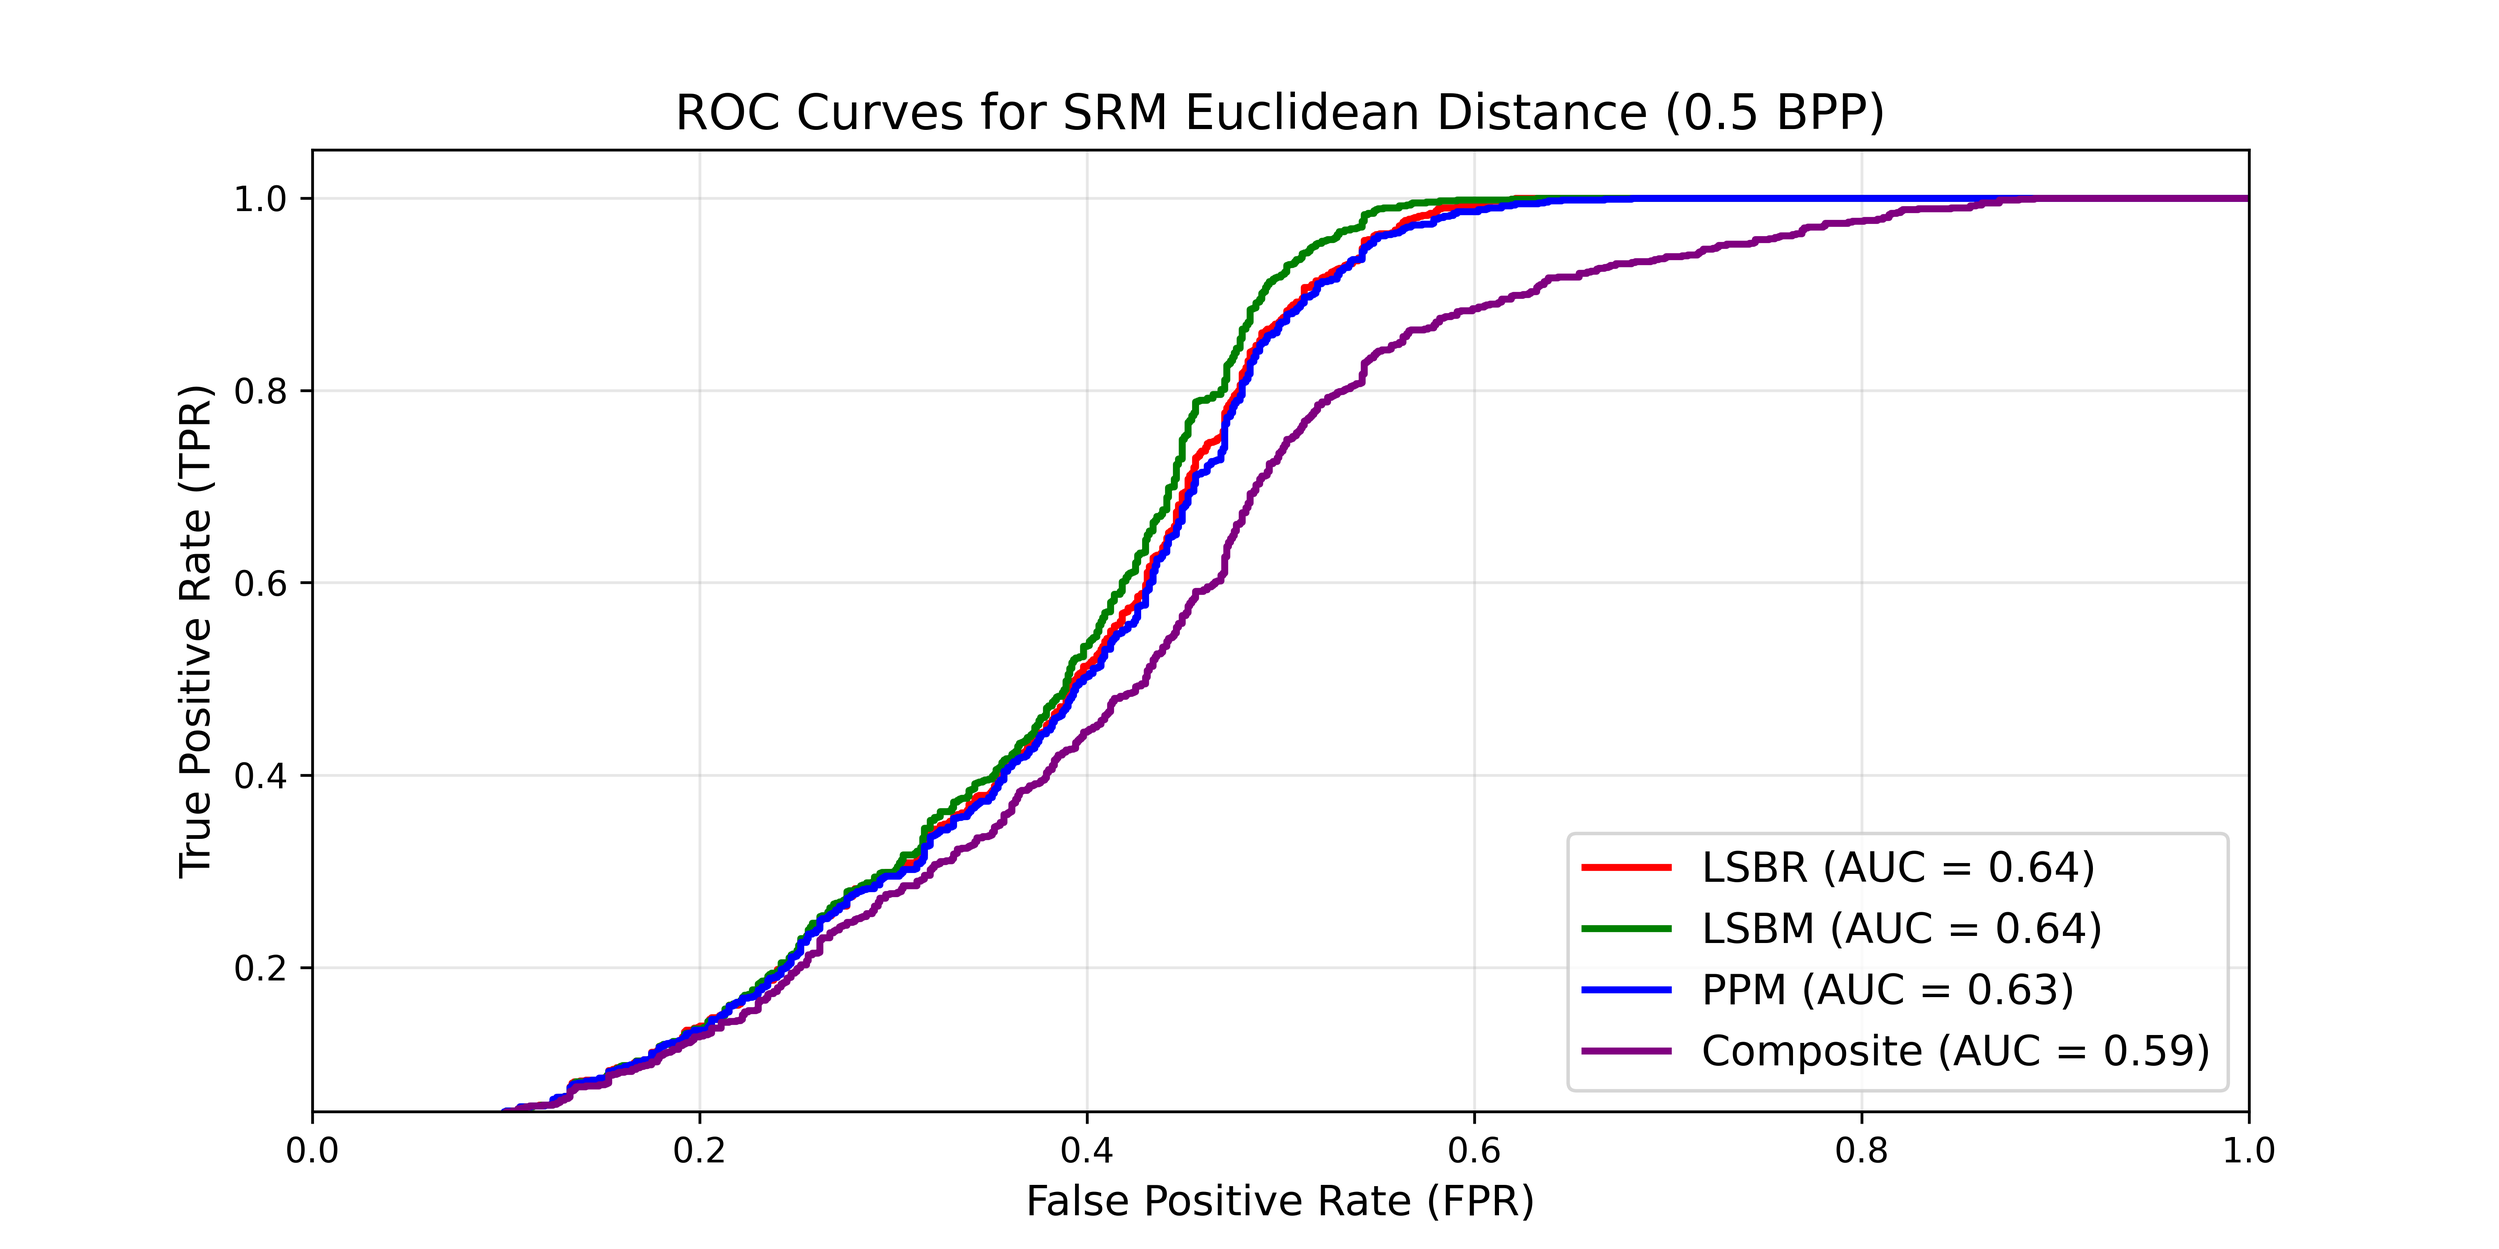
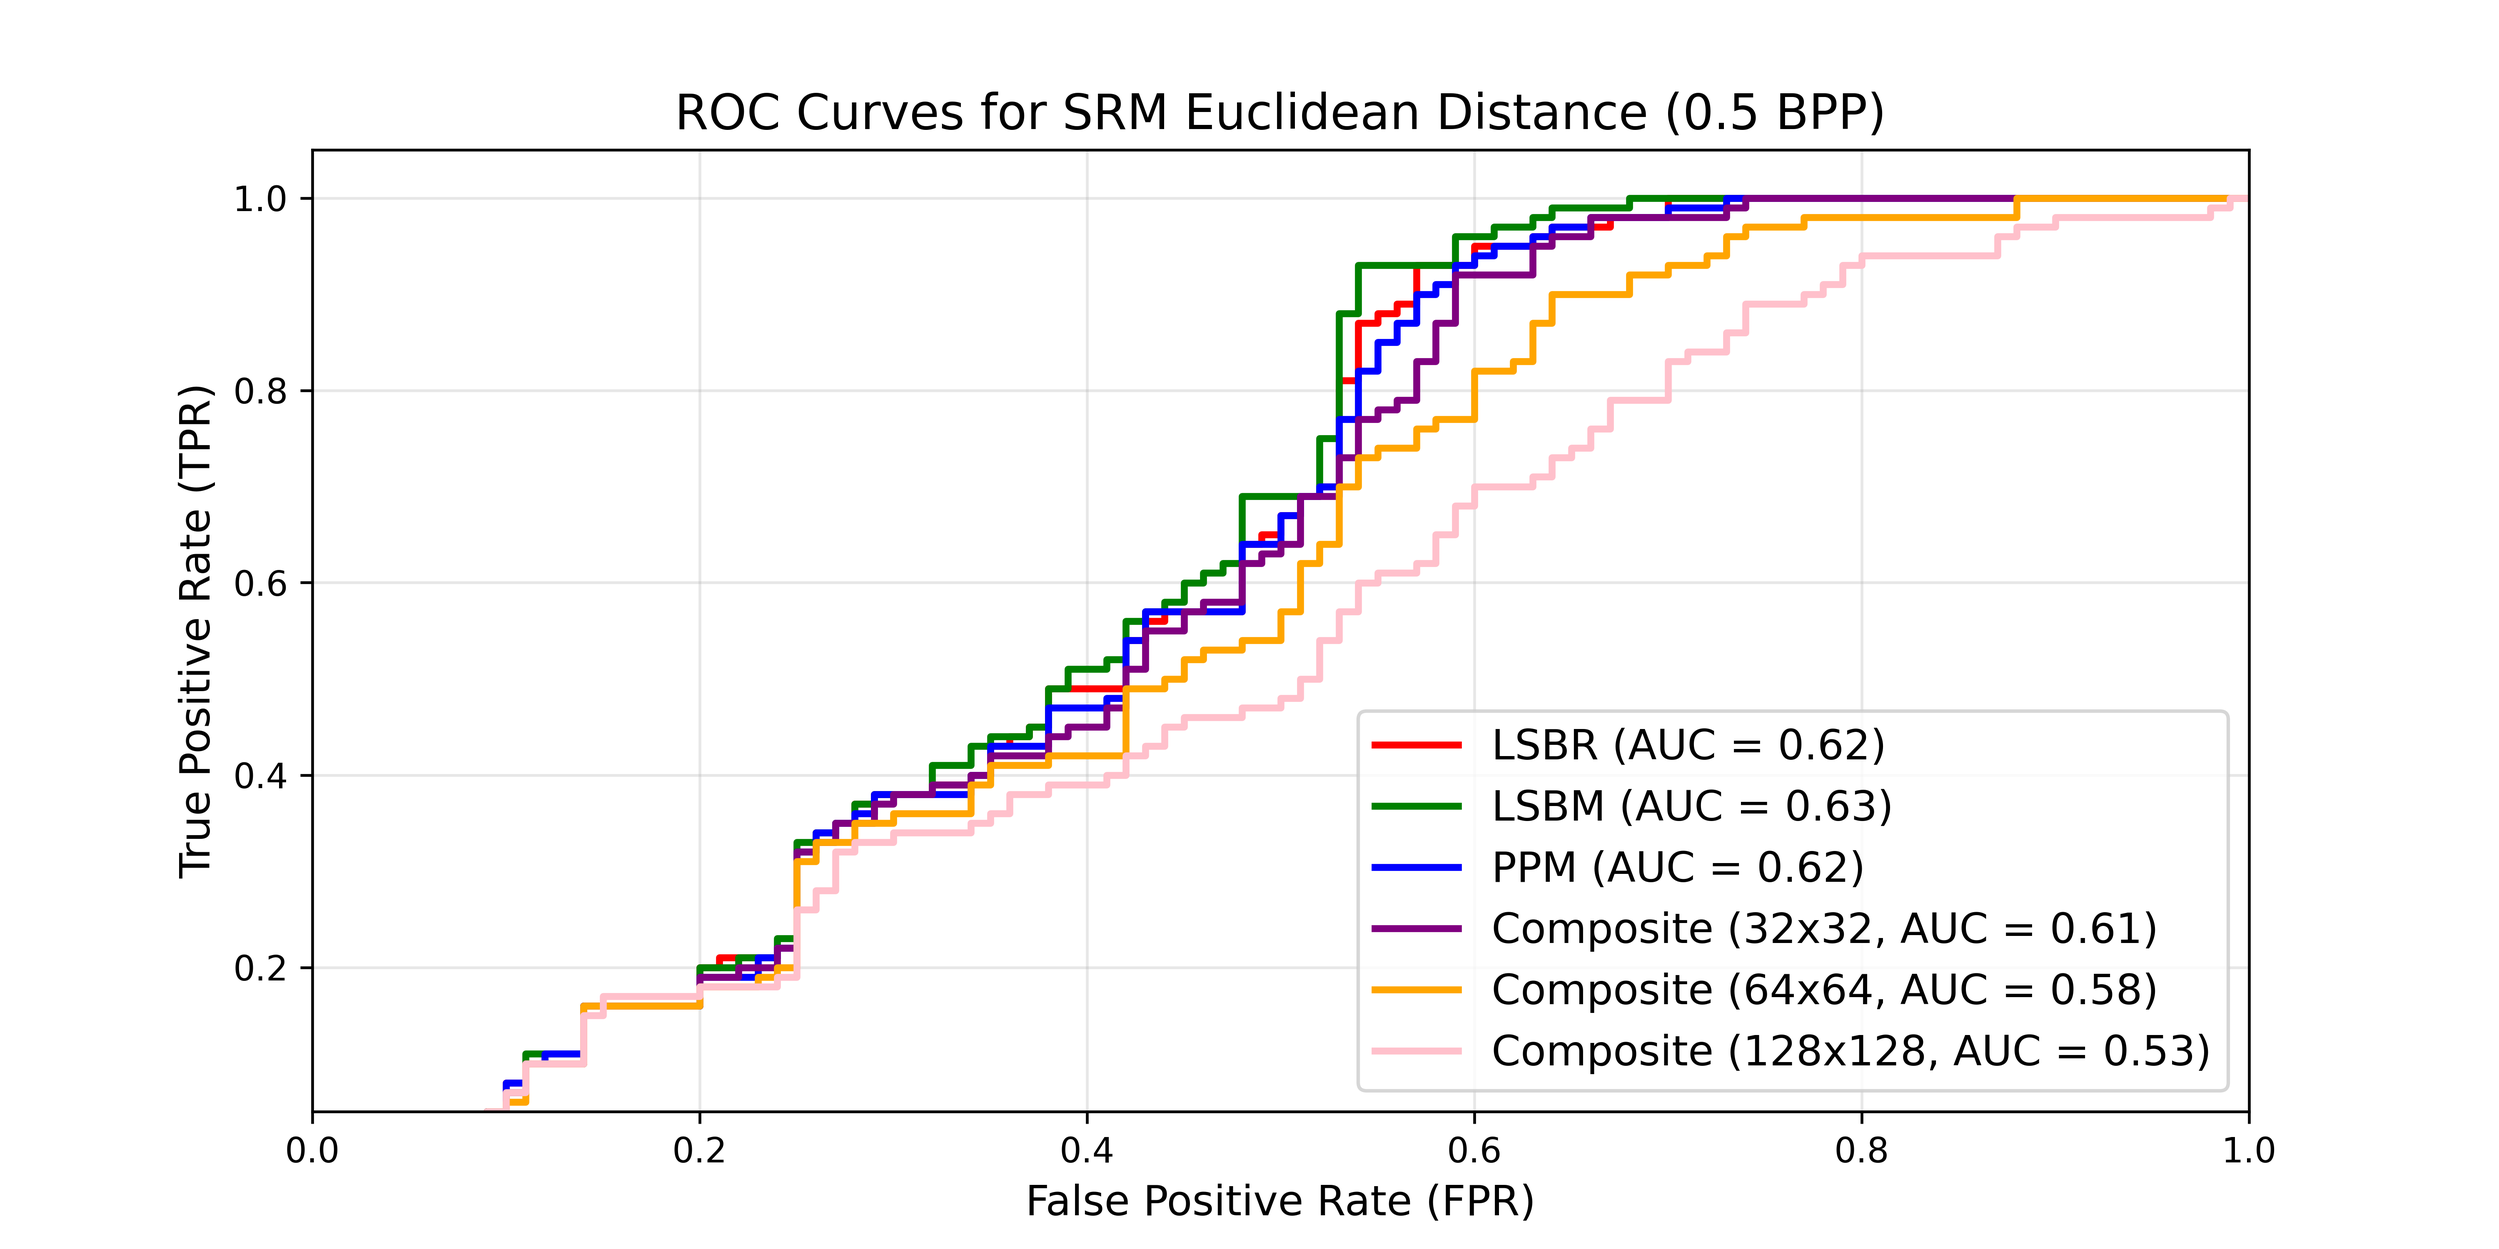
Cleaned up paths
- Paths are now now longer hardcoded in, and are instead properly loaded from the Paths.json file

diff --git a/Adaptive Embedding Scripts/SRMROCCurveGeneration.py b/Adaptive Embedding Scripts/SRMROCCurveGeneration.py
@@ -20,19 +20,21 @@ The actual classification (0 for cover, 1 for stego) is used for the true labels
 A higher AUC means this steganalysis method is more effective against that embedding method  
 """
 
-BOSSBASE_FOLDER = r"C:\Users\iniga\OneDrive\Programming\Steganography Research\Bossbase Dataset 1001-2000"
-LIPSUM = r"C:\Users\iniga\OneDrive\Programming\Steganography Research\Adaptive Embedding Idea\Lipsum.txt"
-MEAN_COVER_NPY = r"C:\Users\iniga\OneDrive\Programming\Steganography Research\Adaptive Embedding Idea\SRMSetup\MeanCoverSRM.npy"
+SETUP_PATHS = GetPaths()
+BOSSBASE_FOLDER = SETUP_PATHS["Bossbase Set B"]
+LIPSUM = SETUP_PATHS["Lipsum"]
+MEAN_COVER_NPY = SETUP_PATHS["Mean Cover SRM NPY"]
+GRAPHS = SETUP_PATHS["Graphs"]
+
 STEP = 5
-GRAPHS = r"C:\Users\iniga\OneDrive\Programming\Steganography Research\Adaptive Embedding Idea\Graphs"
 IMAGE_SIZE = (256, 256)
 THRESHOLD = inf
-BLOCK_SIZE = 64
+BLOCK_SIZES = [32, 64, 128]
+COLOURS = ["purple", "orange", "pink"]
 MAX_CPU_WORKERS = 10
 BPPs = [0.1, 0.5, 1.0]
 
 paths = os.listdir(BOSSBASE_FOLDER)
-blocksPerSideArg = int(IMAGE_SIZE[0] / BLOCK_SIZE)
 
 def FlattenSRM(srmDict):
     vectors = []
@@ -46,40 +48,46 @@ def ConvertSeconds(seconds):
     return f"{int(hours)}h {int(minutes)} min {round(secondsRemaining)} sec"
 
 def ProcessSet(args):
-    path, embedData, secretBytesAmount, secretBytesAmountComp, bytesPerSectionComp, blocksPerSideArg, THRESHOLD, BOSSBASE_FOLDER, meanVector = args
+    path, embedData, secretBytesAmount, secretBytesAmountComp, blockSizes, threshold, bossbaseFolder, meanVector = args
     
-    coverBlock = SplitIntoBlocks(os.path.join(BOSSBASE_FOLDER, path), 256)[0][0]
+    coverBlock = SplitIntoBlocks(os.path.join(bossbaseFolder, path), 256)[0][0]
             
     lsbrBlock = LSBReplacement(deepcopy(coverBlock), embedData[:secretBytesAmount])
     lsbmBlock = LSBMatching(deepcopy(coverBlock), embedData[:secretBytesAmount])
     ppmBlock = PixelPairMatching(deepcopy(coverBlock), embedData[:secretBytesAmount])
     
-    compBlock, _, _ = CompositeMethod(
-        embedData[:secretBytesAmountComp], 
-        os.path.join(BOSSBASE_FOLDER, path), 
-        acceptableMappingThreshold=THRESHOLD, 
-        bytesPerSection=bytesPerSectionComp, 
-        blocksPerSide=blocksPerSideArg,
-    )
-
     coverSRM = srmq1.extract(np.array(coverBlock, dtype=np.uint8))
     lsbrSRM = srmq1.extract(np.array(lsbrBlock, dtype=np.uint8))
     lsbmSRM = srmq1.extract(np.array(lsbmBlock, dtype=np.uint8))
     ppmSRM = srmq1.extract(np.array(ppmBlock, dtype=np.uint8))
-    compSRM = srmq1.extract(np.array(compBlock, dtype=np.uint8))
     
     coverVector = FlattenSRM(coverSRM)
     lsbrVector = FlattenSRM(lsbrSRM)
     lsbmVector = FlattenSRM(lsbmSRM)
     ppmVector = FlattenSRM(ppmSRM)
-    compVector = FlattenSRM(compSRM)
     
+    compDists = {}
+    for blockSize in blockSizes:
+        blocksPerSideArg = int(IMAGE_SIZE[0] / blockSize)
+        bytesPerSectionComp = ceil(secretBytesAmountComp / (blocksPerSideArg ** 2))
+        
+        compBlock, _, _ = CompositeMethod(
+            embedData[:secretBytesAmountComp], 
+            os.path.join(bossbaseFolder, path), 
+            acceptableMappingThreshold=threshold, 
+            bytesPerSection=bytesPerSectionComp, 
+            blocksPerSide=blocksPerSideArg,
+        )
+        compSRM = srmq1.extract(np.array(compBlock, dtype=np.uint8))
+        compVector = FlattenSRM(compSRM)
+        compDists[blockSize] = euclidean(meanVector, compVector)
+
     return {
         'coverDist': euclidean(meanVector, coverVector),
         'lsbrDist': euclidean(meanVector, lsbrVector),
         'lsbmDist': euclidean(meanVector, lsbmVector),
         'ppmDist': euclidean(meanVector, ppmVector),
-        'compDist': euclidean(meanVector, compVector)
+        'compDists': compDists
     }
 
 if __name__ == "__main__":
@@ -103,56 +111,47 @@ if __name__ == "__main__":
         rocLSBMScores = []
         rocPPMTrue = []
         rocPPMScores =[]
-        rocCompTrue = []
-        rocCompScores = []
-
+        
+        rocCompTrueDict = {blockSize: [] for blockSize in BLOCK_SIZES}
+        rocCompScoresDict = {blockSize: [] for blockSize in BLOCK_SIZES}
 
         # Finding amount of bytes to embed
         totalImageBytes = (IMAGE_SIZE[0] * IMAGE_SIZE[1] * bpp) / 8
         secretBytesAmount = int(totalImageBytes)
-
-        # Finding the bytes per section to attempt
-        bytesPerSection = secretBytesAmount
+        secretBytesAmountComp = int(totalImageBytes)
         
-        totalImageBytesComp = (IMAGE_SIZE[0] * IMAGE_SIZE[1] * bpp) / 8
-        secretBytesAmountComp = int(totalImageBytesComp)
-        
-        # Finding the bytes per section to attempt
-        bytesPerSectionComp = ceil(secretBytesAmountComp / ((IMAGE_SIZE[0] / BLOCK_SIZE) ** 2))
-        
-        task_args = [
-            (path, embedData, secretBytesAmount, secretBytesAmountComp, bytesPerSectionComp, blocksPerSideArg, THRESHOLD, BOSSBASE_FOLDER, meanVector)
+        taskArgs = [
+            (path, embedData, secretBytesAmount, secretBytesAmountComp, BLOCK_SIZES, THRESHOLD, BOSSBASE_FOLDER, meanVector)
             for path in paths
         ]
         
         start = datetime.now()
         
         with ProcessPoolExecutor(max_workers=MAX_CPU_WORKERS) as exe: 
-            resultsBatch = list(exe.map(ProcessSet, task_args))
+            resultsBatch = list(exe.map(ProcessSet, taskArgs))
             
         for res in resultsBatch:
-            
             # Add cover scores (Label 0)
-            for tList, sList in [
-                (rocLSBRTrue, rocLSBRScores),
-                (rocLSBMTrue, rocLSBMScores),
-                (rocPPMTrue, rocPPMScores),
-                (rocCompTrue, rocCompScores)
-            ]:
-                tList.append(0)
-                sList.append(res['coverDist'])
+            rocLSBRTrue.append(0); rocLSBRScores.append(res['coverDist'])
+            rocLSBMTrue.append(0); rocLSBMScores.append(res['coverDist'])
+            rocPPMTrue.append(0); rocPPMScores.append(res['coverDist'])
+            
+            for blockSize in BLOCK_SIZES:
+                rocCompTrueDict[blockSize].append(0)
+                rocCompScoresDict[blockSize].append(res['coverDist'])
                 
             # Add stego scores (Label 1)
             rocLSBRTrue.append(1); rocLSBRScores.append(res['lsbrDist'])
             rocLSBMTrue.append(1); rocLSBMScores.append(res['lsbmDist'])
             rocPPMTrue.append(1); rocPPMScores.append(res['ppmDist'])
-            rocCompTrue.append(1); rocCompScores.append(res['compDist'])
+            
+            for blockSize in BLOCK_SIZES:
+                rocCompTrueDict[blockSize].append(1)
+                rocCompScoresDict[blockSize].append(res['compDists'][blockSize])
         
         timesTaken.append((datetime.now() - start).total_seconds())
         print(f"\r\033[K{datetime.now().strftime('%H:%M:%S')} - Completed {index} / {count} (ETA = {ConvertSeconds(sum(timesTaken) / len(timesTaken) * (count - index))})", end="", flush=True)
         index += 1
-
-        #print("\nGenerating ROC curves")
 
         fprLSBR, tprLSBR, _ = roc_curve(rocLSBRTrue, rocLSBRScores)
         rocAucLSBR = auc(fprLSBR, tprLSBR)
@@ -160,15 +159,17 @@ if __name__ == "__main__":
         rocAucLSBM = auc(fprLSBM, tprLSBM)
         fprPPM, tprPPM, _ = roc_curve(rocPPMTrue, rocPPMScores)
         rocAucPPM = auc(fprPPM, tprPPM)
-        fprComp, tprComp, _ = roc_curve(rocCompTrue, rocCompScores)
-        rocAucComp = auc(fprComp, tprComp)
 
         plt.figure(figsize=(10, 5))
         plt.plot(fprLSBR, tprLSBR, color='red', lw=2, label=f'LSBR (AUC = {rocAucLSBR:.2f})')
         plt.plot(fprLSBM, tprLSBM, color='green', lw=2, label=f'LSBM (AUC = {rocAucLSBM:.2f})')
         plt.plot(fprPPM, tprPPM, color='blue', lw=2, label=f'PPM (AUC = {rocAucPPM:.2f})')
-        plt.plot(fprComp, tprComp, color='purple', lw=2, label=f'Composite (AUC = {rocAucComp:.2f})')
 
+        for idx, blockSize in enumerate(BLOCK_SIZES):
+            colour = COLOURS[idx % len(COLOURS)]
+            fprComp, tprComp, _ = roc_curve(rocCompTrueDict[blockSize], rocCompScoresDict[blockSize])
+            rocAucComp = auc(fprComp, tprComp)
+            plt.plot(fprComp, tprComp, color=colour, lw=2, label=f'Composite ({blockSize}x{blockSize}, AUC = {rocAucComp:.2f})')
 
         plt.xlim([0.0, 1.0])
         plt.ylim([0.05, 1.05])
@@ -179,3 +180,4 @@ if __name__ == "__main__":
         plt.grid(alpha=0.3)
 
         plt.savefig(os.path.join(GRAPHS, f'SRMEuclideanDistanceROCCurve-{bpp}bpp.png'), dpi=600)
+        plt.close() 

diff --git a/Adaptive Embedding Scripts/SRMSetup/UseSRMModel.py b/Adaptive Embedding Scripts/SRMSetup/UseSRMModel.py
@@ -61,22 +61,21 @@ def GetEnsembleProbabilities(model, extractedFeatureList):
 
     return list(predictions)
 
+"""
 if __name__ == '__main__':
-    modelPath = input("Model Path : ")
-    
-    with open(modelPath, "rb") as f:
-        model = pickle.load(f)
-    
-    start = datetime.now()
-    
-    testImages = [
+        modelPath = input("Model Path : ")
         
-        #SplitIntoBlocks(r"C:\Users\iniga\OneDrive\Programming\Steganography Research\Adaptive Embedding Idea\SRM Setup\PPM Stegos\1-0.2.png", 256)[0][0],
-        #SplitIntoBlocks(r"C:\Users\iniga\OneDrive\Programming\Steganography Research\Adaptive Embedding Idea\SRM Setup\PPM Stegos\2-0.2.png", 256)[0][0],
-        SplitIntoBlocks(r"C:\Users\iniga\OneDrive\Programming\Steganography Research\Bossbase Dataset 1-1000\1.png", 256)[0][0]
-    ]
-    
-    timeTaken = (datetime.now() - start).total_seconds()
-    
-    print(PredictNewImages(model, testImages))
-    print(f"Time taken : {timeTaken}")
+        with open(modelPath, "rb") as f:
+            model = pickle.load(f)
+        
+        start = datetime.now()
+        
+        testImages = [
+            
+        ]
+        
+        timeTaken = (datetime.now() - start).total_seconds()
+        
+        print(PredictNewImages(model, testImages))
+        print(f"Time taken : {timeTaken}")
+"""

diff --git a/Adaptive Embedding Scripts/SRMSetup/GenerateFeatureMatrices.py b/Adaptive Embedding Scripts/SRMSetup/GenerateFeatureMatrices.py
@@ -5,6 +5,7 @@ from PIL import Image
 import sealwatch as sw
 from datetime import datetime
 from concurrent.futures import ProcessPoolExecutor
+from Helpers.HelperFunctions import GetPaths
 
 """
 This code processes Set A and the existing method stegos derived from Set A.
@@ -60,11 +61,12 @@ if __name__ == '__main__':
     totalCores = 12
     targetCores = max(1, totalCores - 3)
 
-    coverDir = input("Cover : ")
-    lsbrDir = input("LSBR : ")
-    lsbmDir = input("LSBM : ")
-    ppmDir = input("PPM : ")
-    featureMatricesFolder = input("Feature Matrices : ")
+    setupPaths = GetPaths()
+    coverDir = setupPaths["Bossbase Set A"]
+    lsbrDir = os.path.join(setupPaths["SRM"], "LSBR Stegos")
+    lsbmDir = os.path.join(setupPaths["SRM"], "LSBM Stegos")
+    ppmDir = os.path.join(setupPaths["SRM"], "PPM Stegos")
+    featureMatricesFolder = setupPaths["SRM Feature Matrices"]
 
     ExtractFeaturesFromFolder(coverDir, os.path.join(featureMatricesFolder, "CoverFeatures.npy"), targetCores)
     ExtractFeaturesFromFolder(lsbrDir, os.path.join(featureMatricesFolder, "LSBRFeatures.npy"), targetCores)

diff --git a/Adaptive Embedding Scripts/CompositeSteganalysis.py b/Adaptive Embedding Scripts/CompositeSteganalysis.py
@@ -16,8 +16,11 @@ This method generates a variance matrix and compares boundaries and non-boundari
 An ROC curve is then generated analysing the effectiveness of this approach. 
 """
 
-BOSSBASE_FOLDER = r"C:\Users\iniga\OneDrive\Programming\Steganography Research\Bossbase Dataset 1-10"
-LIPSUM = r"C:\Users\iniga\OneDrive\Programming\Steganography Research\Adaptive Embedding Idea\Lipsum.txt"
+SETUP_PATHS = GetPaths()
+BOSSBASE_FOLDER = SETUP_PATHS["Bossbase Set B"]
+LIPSUM = SETUP_PATHS["Lipsum"]
+GRAPHS = SETUP_PATHS["Graphs"]
+
 STEP = 5
 IMAGE_SIZE = (256, 256)
 BLOCK_SIZE = 64
@@ -198,6 +201,6 @@ plt.title(f'ROC Curve for Block Boundary Steganalysis Detector (Block Size = {BL
 plt.legend(loc="lower right", fontsize=12)
 plt.grid(alpha=0.3)
 
-plt.savefig(f'BoundarySteganalysis_ROC_{BLOCK_SIZE}-Testing={EXPERIMENTAL_BLOCK_SIZE}.png', dpi=600)
+plt.savefig(os.path.join(GRAPHS, f'BoundarySteganalysis_ROC_{BLOCK_SIZE}-Testing={EXPERIMENTAL_BLOCK_SIZE}.png'), dpi=600)
 
 print(f"Final AUC Score: {rocAuc:.4f}")

diff --git a/Adaptive Embedding Scripts/GenerateAverageCoverSRM.py b/Adaptive Embedding Scripts/GenerateAverageCoverSRM.py
@@ -3,15 +3,16 @@ import numpy as np
 from PIL import Image
 from datetime import datetime
 from sealwatch.srm import srmq1
+from Helpers.HelperFunctions import GetPaths
 
 """
 This code extracts the SRM vector for each cover image in Set B.
 It then gets the average cover SRM vector from these covers and saves it as an NPY file
 See SRMROCCurveGeneration.py for the usage of this average cover vector
 """
-
-BOSSBASE_FOLDER = r"C:\Users\iniga\OneDrive\Programming\Steganography Research\Bossbase Dataset 1001-2000"
-SAVE_PATH = r"C:\Users\iniga\OneDrive\Programming\Steganography Research\Adaptive Embedding Idea\SRMSetup"
+SETUP_PATHS = GetPaths()
+BOSSBASE_FOLDER = SETUP_PATHS["Bossbase Set B"]
+SAVE_PATH = SETUP_PATHS["SRM"]
 
 def FlattenSRM(srmDict):
     vectors = []

diff --git a/Adaptive Embedding Scripts/EquationGridSearch.py b/Adaptive Embedding Scripts/EquationGridSearch.py
@@ -393,10 +393,11 @@ def StepTwo(processNumber = 1, blockSizes = [], granularity = 0.1, w1Start = 0, 
         
 
 if __name__ == '__main__':
-    coverPath = input("Cover : ").strip()
-    srmFolder = input("SRM : ").strip()
-    outputFolder = input("Output : ").strip()
-    lipsum = input("Lipsum : ").strip()
+    setupPaths = GetPaths()
+    coverPath = setupPaths["Bossbase Set A"]
+    srmFolder = setupPaths["SRM"]
+    outputFolder = setupPaths["Equation Grid Search Logs"]
+    lipsum = setupPaths["Lipsum"]
     
     #StepOne(BLOCK_SIZES)
     

diff --git a/Adaptive Embedding Scripts/GenerateGraphs.py b/Adaptive Embedding Scripts/GenerateGraphs.py
@@ -10,8 +10,9 @@ from Helpers.EmbeddingAlgorithms import *
 from concurrent.futures import ProcessPoolExecutor
 from Helpers.CompositeImplementation import CompositeMethod
 
-print(f"{datetime.now().strftime("%H:%M:%S")} - Imports complete for GraphMakerSQLVersion")
+#print(f"{datetime.now().strftime("%H:%M:%S")} - Imports complete for GraphMakerSQLVersion")
 
+#!TO UPDATE PATHS
 BOSSBASE_FOLDER = GetPaths()["Bossbase Path"]
 DATABASE_NAME = GetPaths()["Database"]
 

diff --git a/Adaptive Embedding Scripts/Helpers/HelperFunctions.py b/Adaptive Embedding Scripts/Helpers/HelperFunctions.py
@@ -55,7 +55,7 @@ def GetPaths():
     - Loads in paths from "Paths.json" for use in scripting
     - Paths.json should be in the same folder as the script calling this function
     """
-    pathsJSONPath = os.path.join(os.getcwd(), "PathsPC.json")
+    pathsJSONPath = os.path.join(os.getcwd(), "Paths.json")
     with open(pathsJSONPath, "r") as f:
         pathsData = json.load(f)
     return pathsData

diff --git a/Adaptive Embedding Scripts/HeatmapMaker.py b/Adaptive Embedding Scripts/HeatmapMaker.py
@@ -15,6 +15,7 @@ from multiprocessing import Process
 print(f"{datetime.now().strftime("%H:%M:%S")} - Imports Complete")
 
 imageSize = (256,256)
+#!TO UPDATE PATHS, COEFFICIENTS
 BOSSBASE_FOLDER = GetPaths()["Bossbase Path"]
 DATABASE_NAME = GetPaths()["Database"]
 paths = os.listdir(BOSSBASE_FOLDER)
